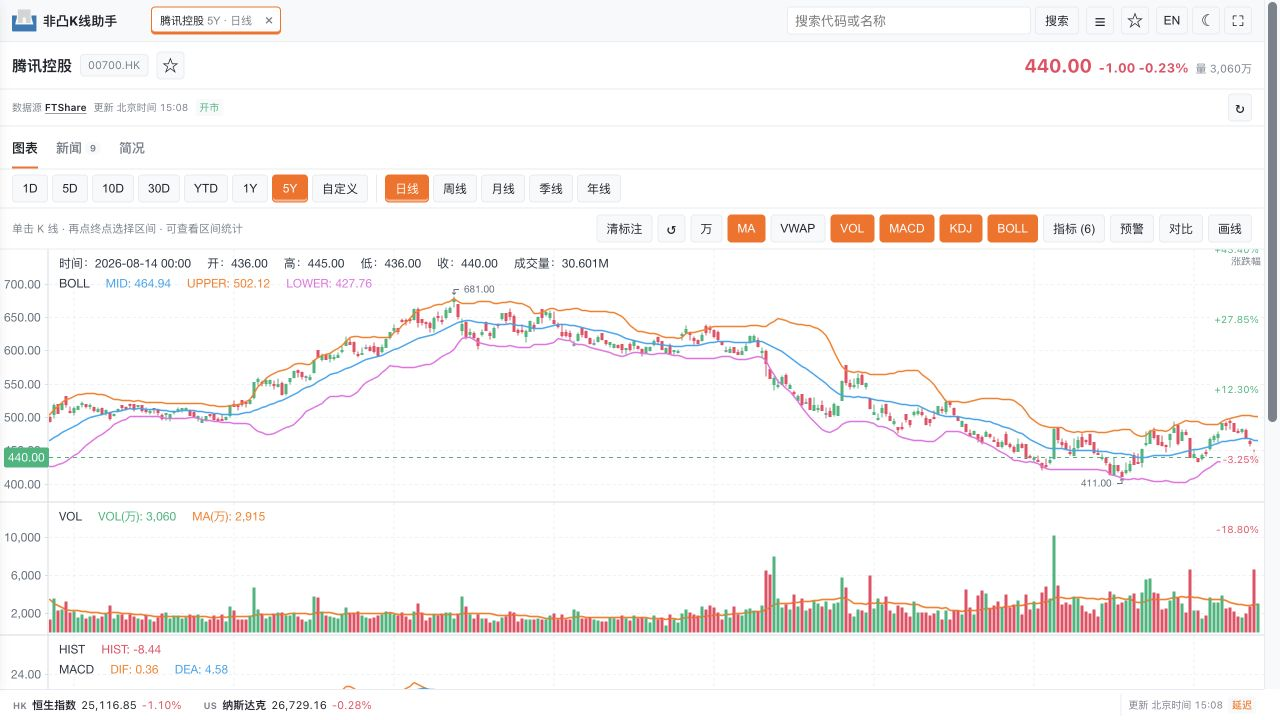
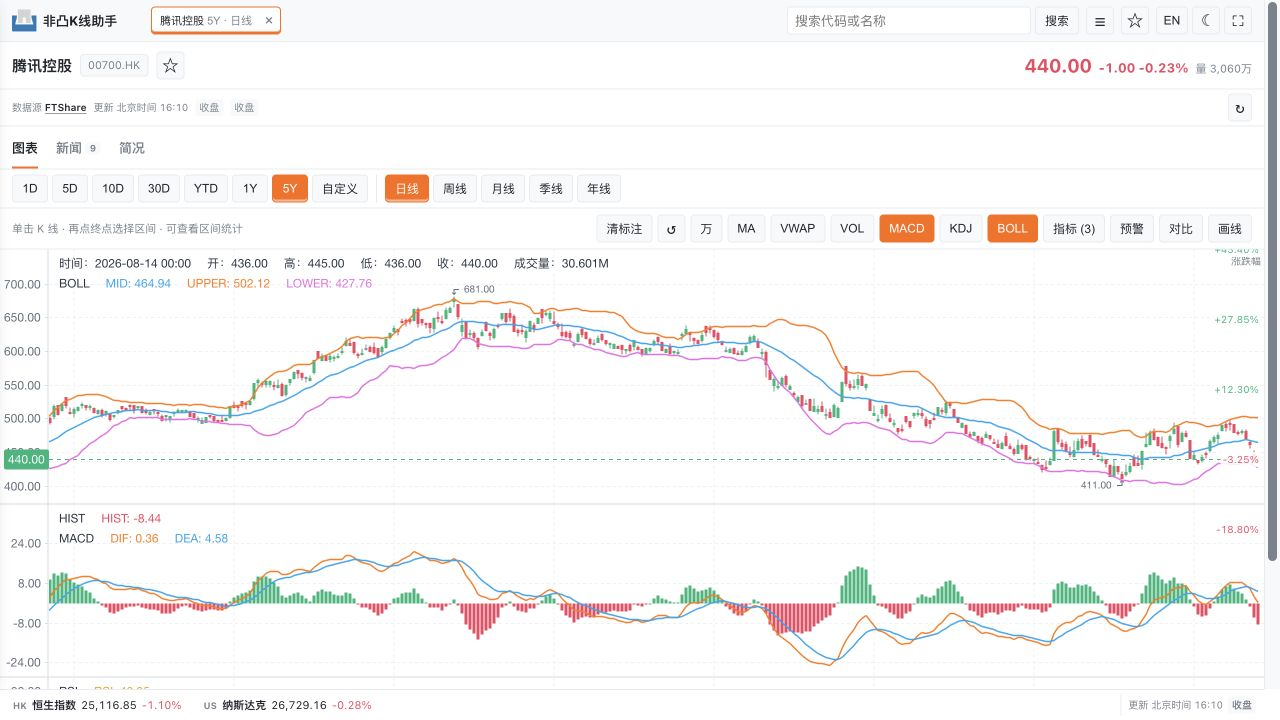
docs: organize README around feature previews

diff --git a/README.md b/README.md
@@ -1,30 +1,41 @@
 # dsh_kline
 
 `dsh_kline` 是面向 [DeepSeek Harness](https://github.com/deepseek-ai/deepseek-harness)
-的独立 K 线分析 MCP。项目默认接入
+的 K 线分析 MCP。项目推荐使用
 [FTShare Python SDK](https://github.com/FTShare-Lab/FTShare-python-sdk)，并针对其
-市场代码、历史行情限制和多市场数据结构进行了适配。
+市场代码、历史行情限制和多市场数据结构做了原生适配；也支持接入其他符合统一
+OHLCV 结构的数据源。
 
-一次 `analyze_kline` 调用即可完成数据获取、指标计算和图表生成。项目不依赖
-FTShare-MCP、`ft-kline-view` 或其他外部 K 线 MCP 服务。
+一次 `analyze_kline` 调用即可完成数据获取、指标计算和图表生成。
 
 ## 界面预览
 
 ![桌面版交互式 K 线图](docs/images/chart-desktop.jpg)
 
-![移动版交互式 K 线图](docs/images/chart-mobile.jpg)
-
-以上截图展示图表、成交量、MA、MACD、BOLL、缩放和响应式布局。截图中的行情
-仅用于展示界面，实际数据由配置的数据源实时获取。
+主图使用 FTShare 数据展示 K 线、技术指标和时间范围切换。
 
 ## 功能
 
 - 支持港股、美股和 A 股日线分析
 - 提供 MA、成交量、MACD、KDJ、RSI、BOLL、ATR、VWAP
+- 自动计算支撑位和压力位，并在对应 K 线上标注价位与触及次数
 - 提供缩放、拖动、十字线和响应式交互式图表
 - 图表可切换 10D、30D、YTD、1Y、5Y 等范围
 - 通过本机临时 URL 查看图表，数据只保存在内存中
 - 指标计算采用统一 OHLCV 数据结构，可接入自有数据源
+
+### 支撑位、压力位与标注
+
+![支撑位和压力位标注](docs/images/chart-support-resistance.jpg)
+
+`analyze_kline` 可在一次调用中计算支撑位和压力位，并把价位与触及次数标到对应
+K 线上。图中使用确定性预览数据，仅用于展示标注效果。
+
+### 响应式布局
+
+<img src="docs/images/chart-mobile.jpg" alt="移动端交互式 K 线图" width="390">
+
+移动端保留指标切换、缩放、拖动、十字线和时间范围控制。
 
 ## 环境要求
 
@@ -46,7 +57,7 @@ pnpm install --frozen-lockfile
 ```
 
 `pnpm install` 安装固定版本的 DeepSeek Harness；`bootstrap.sh` 创建 `.venv`，并
-安装 `dsh_kline` 所需的 Python 依赖和 FTShare SDK。
+安装 `dsh_kline` 所需的 Python 依赖及推荐的 FTShare SDK 数据源。
 
 ## 启动
 
@@ -75,8 +86,13 @@ API Key 只能保存在本机，不要提交到 Git。
 
 ```text
 分析 00700.HK 最近 60 根日 K，显示 MA、成交量、MACD、RSI、BOLL、ATR 和 VWAP，
-用中文总结趋势并提供交互式图表链接。
+分析并标注支撑位和压力位，用中文总结趋势并提供交互式图表链接。
 ```
+
+![DeepSeek Harness 单次调用 analyze_kline](docs/images/harness-analyze-kline.jpg)
+
+上图展示 DeepSeek Harness 通过一次 `analyze_kline` 调用返回行情摘要和数据来源；
+完整结果同时包含 `chart_url`。截图不包含 API Key 或其他凭据。
 
 推荐始终使用单次调用工具：
 
@@ -100,11 +116,12 @@ dsh 进程退出后失效。
 
 ## 数据源
 
-默认数据源是 [FTShare Python SDK](https://github.com/FTShare-Lab/FTShare-python-sdk)。
+[FTShare Python SDK](https://github.com/FTShare-Lab/FTShare-python-sdk) 是可选的
+数据源依赖，也是本项目默认安装并推荐的方案。
 `fetch_candles` 和 `analyze_kline` 已针对 FTShare 的港股、美股、A 股代码规范、
-复权参数和历史数据分页进行了优化。
+复权参数和历史数据分页进行了优化；FTShare SDK 不是指标与图表层的强制依赖。
 
-指标层不绑定 FTShare。`calc_metrics` 可以直接接收其他数据源生成的标准 OHLCV：
+`calc_metrics` 可以直接接收其他数据源生成的标准 OHLCV：
 
 ```json
 {
@@ -117,9 +134,10 @@ dsh 进程退出后失效。
 }
 ```
 
-`time` 使用 Unix 秒，其余字段为数值。要让 `analyze_kline` 自动从自有数据源取数
-并支持图表范围切换，可在 `tools/fetch.py` 中扩展适配器，只需继续输出相同的标准
-OHLCV 结构，无需增加另一个 MCP 服务。
+`time` 使用 Unix 秒，其余字段为数值。不安装 FTShare SDK 时，外部数据仍可用于
+`calc_metrics`；默认的 `fetch_candles` 和 `analyze_kline` 取数会返回明确的数据源
+不可用错误。要让 `analyze_kline` 自动从自有数据源取数并支持图表范围切换，可在
+`tools/fetch.py` 中扩展适配器，只需继续输出相同的标准 OHLCV 结构。
 
 ## 验证
 
@@ -149,7 +167,7 @@ pnpm smoke:markets
 
 ## 来源与许可证
 
-指标实现和交互式前端基于 MIT 许可的 `ft-kline-view` 改造，但本项目运行时不依赖
-该仓库。详细来源见 [docs/PROVENANCE.md](docs/PROVENANCE.md)。
+指标实现和交互式前端参考了 MIT 许可的 `ft-kline-view`，详细来源见
+[docs/PROVENANCE.md](docs/PROVENANCE.md)。
 
 本项目采用 MIT 许可证，见 [LICENSE](LICENSE)。
